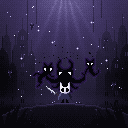
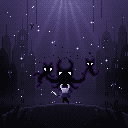
Redraw the Knight from the block-in: seen from behind, original pose
Claude-Session: https://claude.ai/code/session_01JTynV4vLTguTEKhYtYDW26

Changed region(s): [[0.375, 0.625, 0.5625, 0.8125], [0.3438, 0.6562, 0.375, 0.6875]]

diff --git a/void_vigil.py b/void_vigil.py
@@ -329,39 +329,46 @@ SIB_TINY = [
     ".KK.",
 ]
 
-# The Knight.  Origin (56, 82).
+# The Knight, seen from behind, looking up at the shade.  Origin (56, 84).
+# Follows the artist's block-in pixel for pixel: horns leaning in at the tips,
+# the pale back of the mask (no face - it is turned away from us), the cloak
+# swept out to the right, the left arm raised with the nail, and the stance.
 KNIGHT = [
-    "....m........m...",   # 82
-    "....Wm......Wm...",   # 83
-    "....Ww......Ww...",   # 84
-    "....WW......Ww...",   # 85
-    "....WWW....WWw...",   # 86
-    "....WWWWWWWWWw...",   # 87
-    "....WWKKWWKKWw...",   # 88
-    "....WKKKWWKKKw...",   # 89
-    "....WKKKWwKKKw...",   # 90
-    "....wWKKWwKKwm...",   # 91
-    ".....wWWwwwwm....",   # 92
-    "....CCccmmmcco...",   # 93
-    "...CCcccccccooo..",   # 94
-    "..hCCccccccccoo..",   # 95
-    "..CCcccccccccooo.",   # 96
-    "..CcccccccccccoO.",   # 97
-    "..Cc.ccc.cccc.o..",   # 98
-    "..C...cK..Kc...o.",   # 99
-    "......KK..KK.....",   # 100
-    "......KK..KK.....",   # 101
-    ".....KKK..KKK....",   # 102
+    ".....Ww....Ww....",   # 84  horn tips
+    "....Ww......Wm...",   # 85
+    "....Ww......Wm...",   # 86
+    "....Ww......Wm...",   # 87
+    ".....WWWWWwwm....",   # 88  back of the mask, lit from above
+    ".....Wwwwwwwm....",   # 89
+    "......Wwwwwm.....",   # 90
+    "......wwwmmd.....",   # 91
+    "...CCcmmmddd.....",   # 92  collar
+    ".....CCcccccooo..",   # 93
+    "...CCCcccccoo....",   # 94
+    "..KKCCcccccooo...",   # 95  hand on the hilt
+    ".KCCCccccccoooo..",   # 96
+    "....CcoKKKK.oo...",   # 97  hem, legs showing
+    "......lKKKK...o..",   # 98
+    "......lKKKKK.....",   # 99
+    "......lKKKKK.....",   # 100
+    "......lK..KKK....",   # 101
+    "......lK...KK....",   # 102
+    "............K....",   # 103
 ]
 KNIGHT_KEY = dict(KEY)
-KNIGHT_KEY['O'] = CLOAK_LO
+KNIGHT_KEY['l'] = (30, 30, 38)        # the far leg, in shadow
+# The light is in front of the Knight, so the back of the mask sits in shadow
+# with bright rims; the cloak is the artist's deep purple.
+KNIGHT_KEY.update({'W': (206, 200, 228), 'w': (150, 142, 178), 'm': (120, 110, 150),
+                   'd': (92, 82, 124), 'C': (72, 60, 112), 'c': (36, 25, 64),
+                   'o': (22, 15, 40)})
 
 
 def draw_shade(cv):
     ox, oy = 53, 60
     # body: a ragged cloak of void pouring down into the Knight
     cv.blob(64.5, 80, 6.2, 4.5)
-    cv.blob(64.5, 84, 4.2, 3.0)
+    cv.blob(64.5, 83.5, 3.0, 3.0)   # fills the gap between the Knight's horns
     # shoulders sweep out into two long tendrils, like a cape lifting
     cv.wisp([(59, 78), (55, 81), (51, 80), (47, 77), (46, 74), (48, 72)], 2.0, 0.4, broken=0.15)
     cv.wisp([(70, 78), (74, 81), (79, 81), (83, 78), (84, 75), (82, 73)], 2.0, 0.4, broken=0.15)
@@ -402,23 +409,14 @@ def draw_distant_siblings(cv):
 
 
 def draw_knight(cv):
-    cv.sprite(56, 82, KNIGHT, KNIGHT_KEY)
-    # nail raised up-left from the hand at (58, 95)
-    x0, y0, x1, y1 = 57, 94, 47, 87
-    n = max(abs(x1 - x0), abs(y1 - y0))
-    for k in range(n + 1):
-        x = round(x0 + (x1 - x0) * k / n)
-        y = round(y0 + (y1 - y0) * k / n)
-        if k <= 1:
-            cv.put(x, y, HANDLE)
-        elif k == 2:
-            cv.put(x, y, NAIL_LO)          # guard
-            cv.put(x - 1, y + 1, NAIL_LO)
-            cv.put(x + 1, y - 1, NAIL_LO)
-        else:
-            cv.put(x, y, NAIL_HI if k < n else NAIL)
-            cv.put(x, y + 1, NAIL if k < n - 1 else NAIL_LO)
-    cv.put(x1 - 1, y1 - 1, NAIL_HI)        # the tip catching the light
+    cv.sprite(56, 84, KNIGHT, KNIGHT_KEY)
+    # the nail, raised up-left from the hand: lit lower edge, darker upper edge
+    for x, y, c in ((52, 91, NAIL_HI),
+                    (53, 92, NAIL_HI), (54, 92, NAIL),
+                    (54, 93, NAIL_HI), (55, 93, NAIL),
+                    (55, 94, NAIL_HI), (56, 94, NAIL_LO),
+                    (56, 95, NAIL_LO), (57, 95, HANDLE)):
+        cv.put(x, y, c)
 
 
 def draw_ground_detail(cv, gtop):
